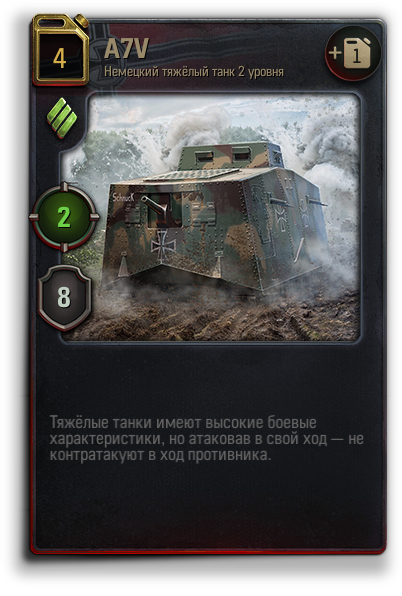
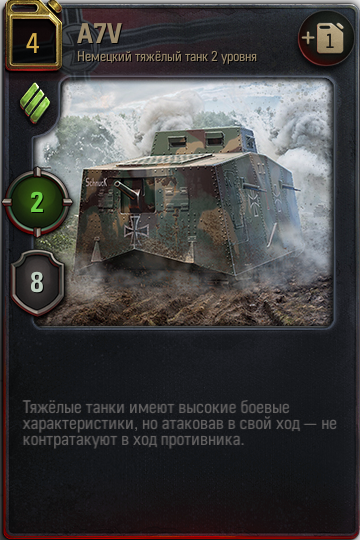
YA-23 add images on deck page

diff --git a/packages/client/src/pages/Deck/index.tsx b/packages/client/src/pages/Deck/index.tsx
@@ -14,7 +14,7 @@ import { Box } from '@mui/system'
 import { SubMenu } from '../../components/SubMenu/SubMenu'
 import { useCallback, useState } from 'react'
 import { Swiper, SwiperSlide } from 'swiper/react'
-import { AppRoute } from '../../utils/consts'
+import { AppRoute, ImageByName } from '../../utils/consts'
 import { useNavigate } from 'react-router-dom'
 import { Card } from '../../components/Card/Card'
 import 'swiper/css'
@@ -44,13 +44,9 @@ const styles = {
     position: 'absolute',
     top: '50%',
     left: '50%',
-    justifyContent: 'space-between',
     transform: 'translate(-50%, -50%)',
-    width: '600px',
-    backgroundColor: 'background.paper',
-    border: '2px solid #000',
-    boxShadow: '24px',
-    padding: '25px',
+    width: '360px',
+    height: '540px',
   },
   cardButtonInfo: {
     display: 'flex',
@@ -61,7 +57,7 @@ const styles = {
     fontSize: '10px',
     pt: '5px',
     pb: '5px',
-    borderRadius: '0 0 5px 5px',
+    borderRadius: '5px',
   },
   modalErrorWindow: {
     position: 'absolute',
@@ -105,6 +101,8 @@ export const Deck = () => {
 
   //TODO Расписать дефолтный объект (сразу не получилось...) (Xroniks - Павел Постников)
   const [cardItem, setCardItem] = useState(allCardsForDeck[0])
+  const { name } = cardItem
+  const srcImg = ImageByName[name]
 
   const handleChangeChoiceDeck = useCallback(
     (event: SelectChangeEvent) => {
@@ -188,14 +186,13 @@ export const Deck = () => {
           </Swiper>
         </Box>
         <Box>
-          <Box sx={{ display: 'flex', marginTop: '20px' }}>
-            <Box sx={{ display: 'grid' }}>
-              <Typography>Колода</Typography>
+          <Box sx={{ display: 'flex', marginTop: '30px' }}>
+            <Box sx={{ display: 'flex', alignItems: 'center' }}>
+              <Typography mr="30px">Колода</Typography>
               <Box sx={{ display: 'flex' }}>
-                <Typography>Название штаба:</Typography>
                 <Typography
                   sx={{
-                    marginLeft: '5px',
+                    mr: '15px',
                     color: permissionSave ? 'red' : '#EAE3CC',
                   }}>{`${currentDeck.length}/30`}</Typography>
               </Box>
@@ -265,48 +262,7 @@ export const Deck = () => {
       </Box>
       <Modal disableAutoFocus open={isOpen} onClose={() => setIsOpen(false)}>
         <Box sx={styles.modalWindow}>
-          <Typography
-            onClick={() => setIsOpen(false)}
-            component="span"
-            sx={{
-              cursor: 'pointer',
-              position: 'absolute',
-              right: '10px',
-              top: '10px',
-            }}>
-            <CloseIcon />
-          </Typography>
-          <Typography textAlign="center" marginBottom="20px" variant="h2">
-            Описание карты: {cardItem.name}
-          </Typography>
-          <Box
-            sx={{
-              display: 'flex',
-            }}>
-            <Card item={cardItem} handleCardClick={() => null}></Card>
-            <Box sx={{ ml: '15px', width: '350px' }}>
-              <Typography variant={'h6'} sx={{ textAlign: 'center' }}>
-                Особенность:
-              </Typography>
-              <Typography component={'p'}>
-                Средние танки - самый универсальный тип техники, а ещё они могут
-                передвигаться по диагонали.
-              </Typography>
-              <Typography variant={'h6'} sx={{ textAlign: 'center' }}>
-                Способность №1:
-              </Typography>
-              <Typography component={'p'}>
-                Огневая мощь увеличивается на 1 за каждую технику противника на
-                соседних клетках.
-              </Typography>
-              <Typography variant={'h6'} sx={{ textAlign: 'center' }}>
-                Способность №2:
-              </Typography>
-              <Typography component={'p'}>
-                Ваш штаб может быть атаковано только один раз за ход.
-              </Typography>
-            </Box>
-          </Box>
+          <Box component="img" src={srcImg} alt="Изображение карты" />
         </Box>
       </Modal>
       <Modal

diff --git a/packages/client/src/components/Card/Card.tsx b/packages/client/src/components/Card/Card.tsx
@@ -1,16 +1,17 @@
 import { FC, memo } from 'react'
 import { Box } from '@mui/system'
-import { Typography } from '@mui/material'
 import { Tank } from '../../gameCore/models/TanksDeck'
+import { ImageByName } from '../../utils/consts'
 
 const styles = {
   card: {
-    display: 'grid',
-    height: '280px',
+    display: 'flex',
+    justifyContent: 'center',
+    alignItems: 'center',
+    height: '300px',
     width: '200px',
-    backgroundColor: '#c03f3f',
+    overflow: 'hidden',
     borderRadius: '5px 5px 0 0',
-    textAlign: 'center',
   },
   cardButtonInfo: {
     background: 'grey',
@@ -21,6 +22,10 @@ const styles = {
     pb: '5px',
     borderRadius: '0 0 5px 5px',
   },
+  cardImg: {
+    width: '200px',
+    height: '300px',
+  },
 }
 
 export interface ICardProps {
@@ -29,9 +34,11 @@ export interface ICardProps {
 }
 
 export const Card: FC<ICardProps> = memo(({ item, handleCardClick }) => {
+  const { name } = item
+  const srcImg = ImageByName[name]
   return (
     <Box onClick={() => handleCardClick(item)} sx={styles.card}>
-      <Typography sx={{ alignSelf: 'center' }}>{item.name}</Typography>
+      <Box component="img" src={srcImg} sx={styles.cardImg} />
     </Box>
   )
 })

diff --git a/packages/client/src/utils/consts.ts b/packages/client/src/utils/consts.ts
@@ -98,6 +98,24 @@ export const IconsByName: Record<string, string> = {
   'МС-1': `${tankIconPath}ms-1-image.png`,
 }
 
+const tankImagePath = '/cards/tanks/'
+
+export const ImageByName: Record<string, string> = {
+  Liberty: `${tankImagePath}liberty.png`,
+  T6: `${tankImagePath}t6.png`,
+  'T-24': `${tankImagePath}t-24.png`,
+  'T-35-1': `${tankImagePath}t-35-1.png`,
+  'T-21': `${tankImagePath}t-21.png`,
+  A7V: `${tankImagePath}a7v.png`,
+  'СУ-18': `${tankImagePath}su-18.png`,
+  'Panzerjager I': `${tankImagePath}panzerjagerI.png`,
+  T18: `${tankImagePath}t-18.png`,
+  Leichttraktor: `${tankImagePath}leichttraktor.png`,
+  'T1 LT': `${tankImagePath}t1-lt.png`,
+  'T7 Combat Car': `${tankImagePath}t7-Combat-Car.png`,
+  'МС-1': `${tankImagePath}ms1.png`,
+}
+
 export enum HeadquartersNames {
   german = 'Trainingslager',
   usa = 'Training Camp',
